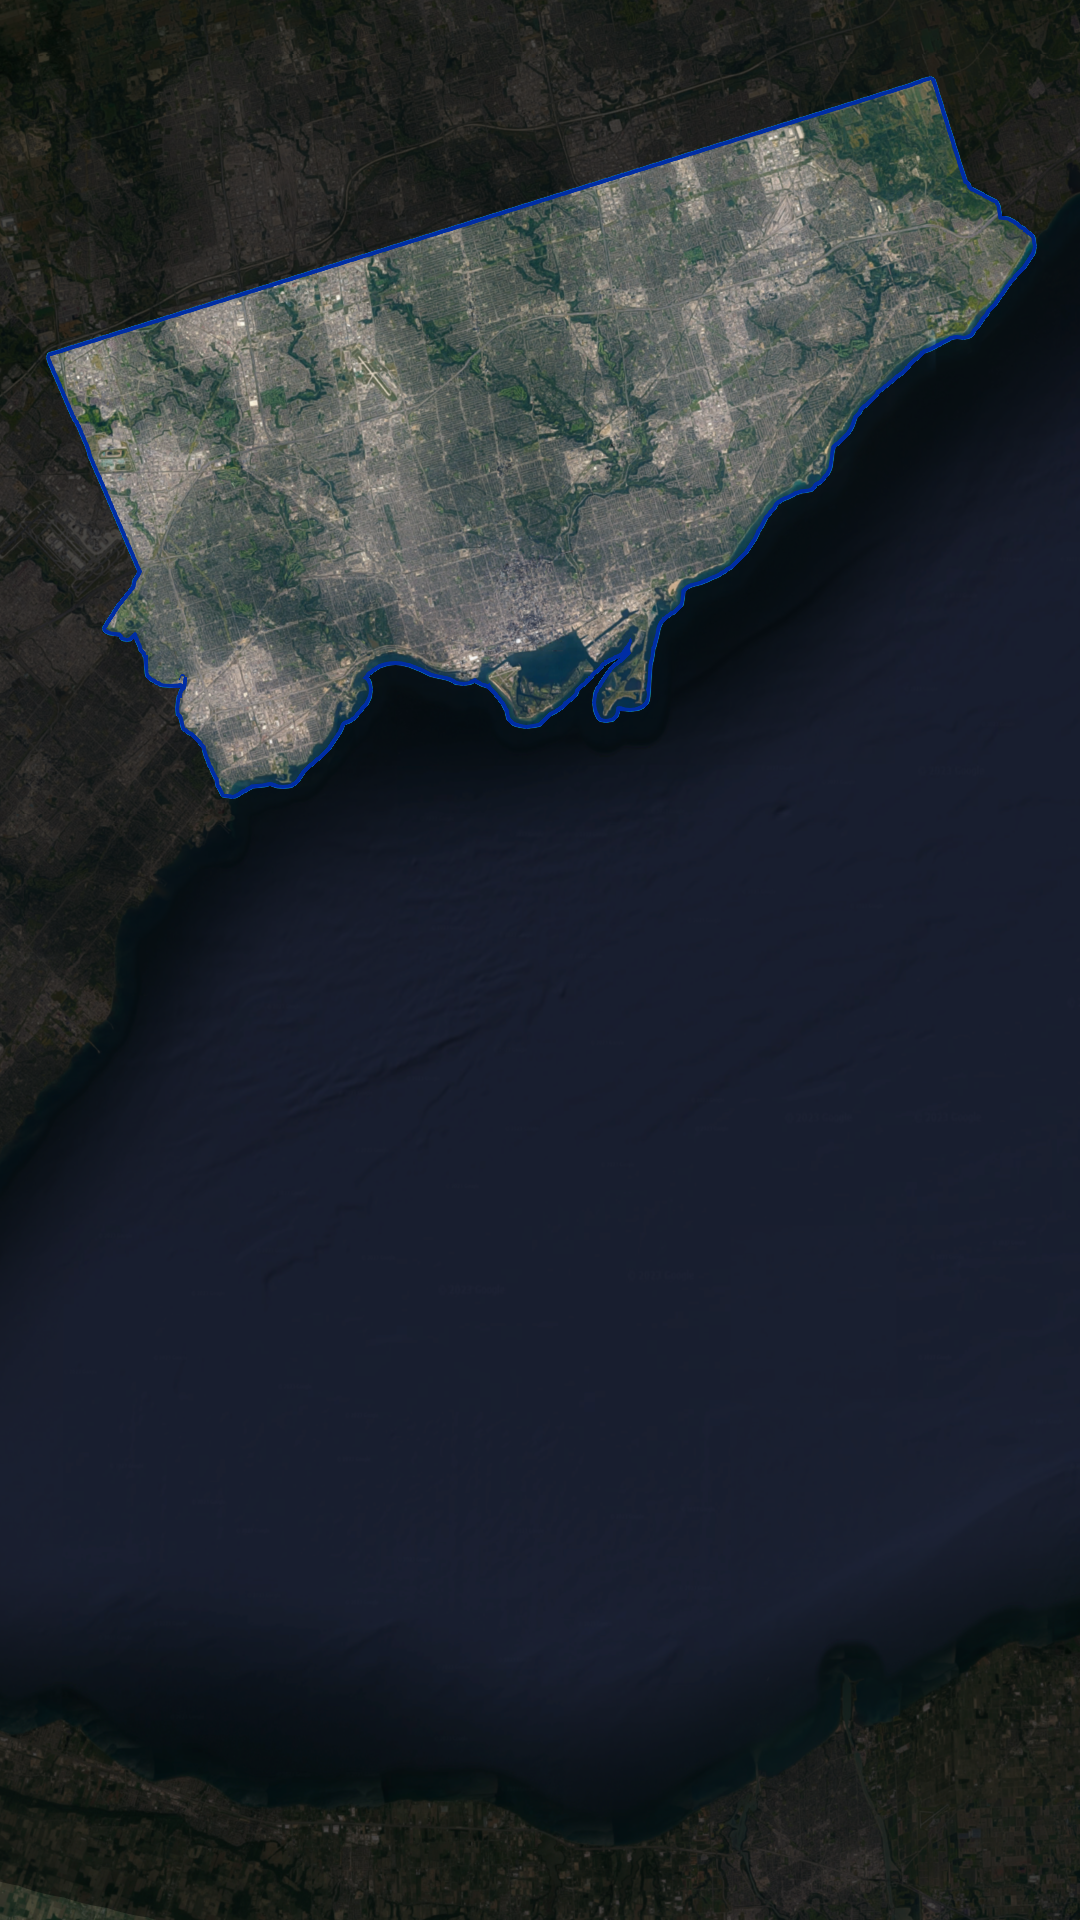
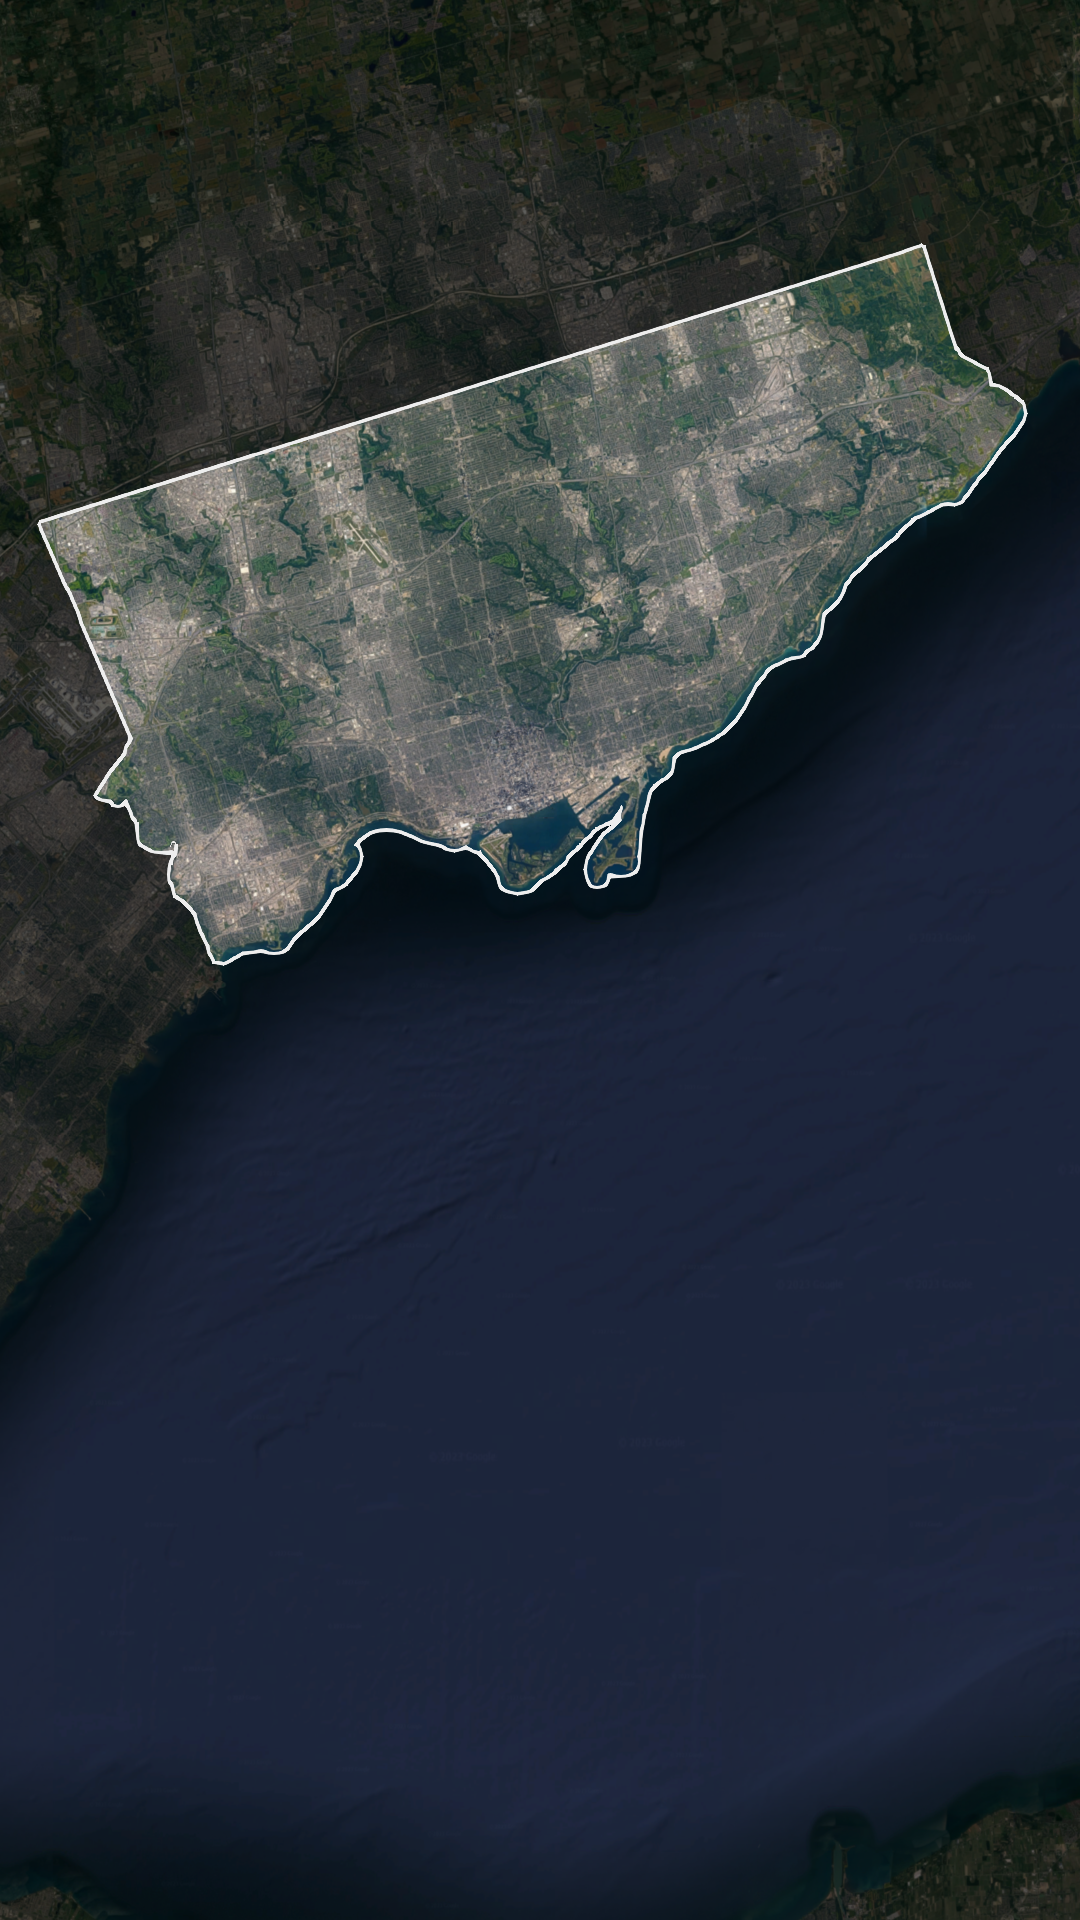
upd

diff --git a/src/comp/Map.tsx b/src/comp/Map.tsx
@@ -1,15 +1,34 @@
 import React from 'react';
 import { Img, staticFile } from "remotion";
 import { Report } from '../global/report';
+import CrimeIcon from './CrimeIcon';
 import Icon from './Icon';
 import Blink from './Blink';
-import { gunFilename, mapFilename, circleFilename } from '../global/filenames';
+import { mapFilename, circleFilename } from '../global/filenames';
 
+// 5427239.027927728,49
+// 5443097.109880663,931
+// 5405767.174643795,604
+// y = 64166290 - 23.66701*x + 0.000002182327*x^2
+
+// 5427239.027927728, -8864425.720870294
+// 49, 356
+
+// 5443097.109880663, -8813484.897743978
+// 931, 78
+
+// 5405767.174643795, -8833013.898652822
+// 604, 713
 
 function convertReportPointToPixel(report:Report):[number,number]{
-  return [report.geoPoint[0], report.geoPoint[1]]
-}
 
+  y = -0.0168663*x - 148494.1
+  y = 0.01696261*x - 90655.49
+  const newX = Math.round(-2699487000 + 1497.296*report.geoPoint[0] - 0.0002768294*report.geoPoint[0]^2 + 1.706064e-11*report.geoPoint[0]^3)
+  const newY = Math.round(-2699487000 + 1497.296*report.geoPoint[1] - 0.0002768294*report.geoPoint[1]^2 + 1.706064e-11*report.geoPoint[1]^3)
+  
+  return [newX, newY];
+}
 
 
 
@@ -20,29 +39,26 @@ const ReportMapped: React.FC<{
   isHighlighted:boolean,
 }> = ({durationInFrames, report, isHighlighted, animDelayPerc=0}) => {
 
-  const highlightOffsetY = 128;
-  const reportsPixelPoint = convertReportPointToPixel(report);
+  const reportPixelPoint = convertReportPointToPixel(report);
 
 	return (
-      <div>
+      <div
+        style={{transform: `translate(${reportPixelPoint[0]}px, ${reportPixelPoint[1]}px)`}}
+
+        className='absolute flex flex-col justify-center items-center'
+      >
 
         {isHighlighted?
           (
-          <div 
-              style={{transform: `translate(${reportsPixelPoint[0]}px, ${reportsPixelPoint[1]-highlightOffsetY}px)`}}
-                className={`absolute`}
-              >
+          <div >
               <Blink durationInFrames={durationInFrames} classOther="" animDelayPerc={animDelayPerc} >
-                <Icon filename={gunFilename} classOther='w-32' />
+                <CrimeIcon report={report} classOther='w-28' />
               </Blink>
             </div>
           ):(<div/>)}
 
-          <div
-                style={{transform: `translate(${reportsPixelPoint[0]}px, ${reportsPixelPoint[1]}px)`}}
-                className={`absolute`}
-          >
-            <Icon filename={circleFilename} classOther='w-12' />
+          <div>
+            <Icon filename={circleFilename} classOther='w-8' />
           </div>
       </div>
 	);

diff --git a/src/scenes/Overview.tsx b/src/scenes/Overview.tsx
@@ -32,7 +32,7 @@ export const OverviewScene: React.FC<{
 			{/* prompt */}
 			<SlideUpDown 
 				durationInFrames={durationInFrames} 
-				targetHeightRatio={0.5} 
+				targetHeightRatio={0.4} 
 				classOther="w-full flex flex-col items-center justify-center" 
 				animDelayPerc={0}>
 				<Card colorScheme={primary}>
@@ -42,11 +42,11 @@ export const OverviewScene: React.FC<{
 				</Card>
 				<Card colorScheme={secondary}>
 					<FadeInOut durationInFrames={durationInFrames} classOther="w-full flex flex-col items-start justify-center gap-4 pt-4 pb-8" animDelayPerc={0.04}>
-						<Text bolded="Total: " text={`${reports.length} reports`} fontScheme={bodyFont} colorScheme={secondary} />
-						<Text bolded="Shooting: " text={`${shooting.length} reports`} fontScheme={bodyFont} colorScheme={secondary} />
-						<Text bolded="Robbery: " text={`${robbery.length} reports`} fontScheme={bodyFont} colorScheme={secondary} />
-						<Text bolded="Sexual Violation: " text={`${sexualViolation.length} reports`} fontScheme={bodyFont} colorScheme={secondary} />
-						<Text bolded="Homicide: " text={`${homicide.length} reports`} fontScheme={bodyFont} colorScheme={secondary} />
+						<Text bolded="Total: " text={`${reports.length} ${grammarPlurality('report', reports.length)}`} fontScheme={bodyFont} colorScheme={secondary} />
+						<Text bolded="Shooting: " text={`${shooting.length} ${grammarPlurality('report', shooting.length)}`} fontScheme={bodyFont} colorScheme={secondary} />
+						<Text bolded="Robbery: " text={`${robbery.length} ${grammarPlurality('report', robbery.length)}`} fontScheme={bodyFont} colorScheme={secondary} />
+						<Text bolded="Sexual Violation: " text={`${sexualViolation.length} ${grammarPlurality('report', sexualViolation.length)}`} fontScheme={bodyFont} colorScheme={secondary} />
+						<Text bolded="Homicide: " text={`${homicide.length} ${grammarPlurality('report', homicide.length)}`} fontScheme={bodyFont} colorScheme={secondary} />
 					</FadeInOut>
 				</Card>
 				<Card colorScheme={tertiary}>
@@ -61,3 +61,9 @@ export const OverviewScene: React.FC<{
 	);
 };
         
+
+
+
+function grammarPlurality(word:string, count:number){
+	return count == 1? word : word+"s";
+}

diff --git a/src/scenes/Report.tsx b/src/scenes/Report.tsx
@@ -7,7 +7,7 @@ import FadeInOut from '../comp/FadeInOut'
 import Text from '../comp/Text';
 import SlideUpDown from '../comp/SlideUpDown'
 import Map from '../comp/Map';
-
+import { convertTo12 } from '../global/dateHelper';
 
 
 
@@ -27,20 +27,18 @@ export const ReportScene: React.FC<{
 
 		<AbsoluteFill className={`bg-slate-900 items-start justify-start`}>
 
-			{/* map */}
 			<Map durationInFrames={durationInFrames} reports={reports} highlightedIndices={[reportIndex]} animDelayPerc={0.1} />
 
-			{/* prompt */}
 			<SlideUpDown 
 				durationInFrames={durationInFrames} 
-				targetHeightRatio={0.5} 
+				targetHeightRatio={0.4} 
 				classOther="w-full flex flex-col items-center justify-center" 
 				animDelayPerc={0}>
 				<Card colorScheme={secondary}>
 					<FadeInOut durationInFrames={durationInFrames} classOther="w-full flex flex-col items-start justify-center gap-4 pt-4 pb-8" animDelayPerc={0.04}>
-						<Text bolded="Time: " text={`${report.hour} *`} fontScheme={bodyFont} colorScheme={secondary} />
-						<Text bolded="Neighborhood: " text={`${report.neighborhood}`} fontScheme={bodyFont} colorScheme={secondary} />
-						<Text bolded="Crime Type: " text={`${report.crimeType}`} fontScheme={bodyFont} colorScheme={secondary} />
+						<Text bolded="Time: " text={`${convertTo12(report.hour)}`} fontScheme={bodyFont} colorScheme={secondary} />
+						<Text bolded="Area: " text={`${report.neighborhood}`} fontScheme={bodyFont} colorScheme={secondary} />
+						<Text bolded="Incident Type: " text={`${report.crimeType}`} fontScheme={bodyFont} colorScheme={secondary} />
 						<Text bolded="Location Type: " text={`${report.locationType}`} fontScheme={bodyFont} colorScheme={secondary} />
 					</FadeInOut>
 				</Card>

diff --git a/src/global/dateHelper.ts b/src/global/dateHelper.ts
@@ -1,6 +1,37 @@
 
-export function getDateStr(date:Date, isMonthShort:boolean=false):string{
-  const day = date.getDay();
-  const monthName = date.toLocaleString('default', { month: 'long' });
-  return `${monthName} ${day}`
+export function getDateStr(date:Date, isShortHand:boolean) : string {
+  const day = date.getDate();
+  const month = date.getMonth();
+
+  // Define full months and shorthand months 
+  const fullMonths = ['January', 'February', 'March', 'April', 'May', 'June', 'July', 'August', 'September', 'October', 'November', 'December'];
+  const shortMonths = ['Jan', 'Feb', 'Mar', 'Apr', 'May', 'Jun', 'Jul', 'Aug', 'Sep', 'Oct', 'Nov', 'Dec'];
+
+  const getOrdinalSuffix = (n: number) => { 
+    if (n > 3 && n < 21) return 'th';
+    switch (n % 10) {
+        case 1:  return "st";
+        case 2:  return "nd";
+        case 3:  return "rd";
+        default: return "th";
+    }
+  }
+
+  if(isShortHand) {
+    return `${shortMonths[month]} ${day}${getOrdinalSuffix(day)}`;
+  } else {
+    return `${fullMonths[month]} ${day}${getOrdinalSuffix(day)}`;
+  }
 }
+
+export function convertTo12(time: number): string {
+  if (time === 0) {
+      return `12am`;
+  } else if (time < 12) {
+      return `${time}am`;
+  } else if (time === 12) {
+      return `12pm`;
+  } else {
+      return `${time - 12}pm`;
+  }
+};

diff --git a/src/comp/CrimeIcon.tsx b/src/comp/CrimeIcon.tsx
@@ -1,0 +1,47 @@
+import React from 'react';
+import {Report, CrimeTypes} from '../global/report';
+import { Img, staticFile } from "remotion";
+import { gunFilename, robberFilename, sexualViolationFilename, homicideFilename } from '../global/filenames';
+
+
+
+
+
+const CrimeIcon: React.FC<{
+	report: Report,
+  classOther:string
+}> = ({report, classOther}) => {
+
+  let filename:string|null = null;
+  
+  switch (report.crimeType) {
+    case CrimeTypes.shooting:
+      filename=gunFilename
+      break;
+
+    case CrimeTypes.robbery:
+      filename=robberFilename
+      break;
+
+    case CrimeTypes.sexualViolation:
+      filename=sexualViolationFilename
+      break;
+
+    case CrimeTypes.homicide:
+      filename=homicideFilename
+      break;
+  
+    default:
+      break;
+  }
+
+  if(filename==null){
+    throw new Error("Report crimeType did not match existing icons");
+  }
+
+	return (
+			<Img src={staticFile(filename)} className={classOther} alt="Icon" />
+	);
+};
+
+export default CrimeIcon;

diff --git a/src/Composition.tsx b/src/Composition.tsx
@@ -2,27 +2,19 @@ import * as IntroScene from "./scenes/Intro";
 import * as OverviewScene from "./scenes/Overview";
 import * as ReportScene from "./scenes/Report";
 import * as MessageScene from "./scenes/Message";
-import {Report, fetchReports} from './global/report';
+import {fetchReports} from './global/report';
 import {
-  linearTiming,
-  springTiming,
   TransitionSeries,
 } from "@remotion/transitions"; 
-import { fade } from "@remotion/transitions/fade";
-import { wipe } from "@remotion/transitions/wipe";
 import { loadFont } from "@remotion/google-fonts/Montserrat";
 import { generatePrompts } from "./global/prompt";
 
 const { fontFamily } = loadFont();
 
 
-// fetch reports
-// generate prompts
-  // generate tts 
-  // fetch prompt durations
-// create scenes
 
 const date = new Date()
+date.setDate(date.getDate() - 1);
 const reports = fetchReports(date)
 const prompts = generatePrompts(date, reports)
 

diff --git a/src/global/report.ts b/src/global/report.ts
@@ -11,21 +11,21 @@ export interface Report{
 export function fetchReports(date:Date):Report[]{
 
   const reportExample:Report={
-    geoPoint : [250,450],
+    geoPoint : [-8864425.720870294, 5427239.027927728],
     hour:23,
     neighborhood:"Downtown Yonge East",
     crimeType:"Robbery",
     locationType:"Outside",
   }
   const reportExample2:Report={
-    geoPoint : [500,350],
+    geoPoint : [-8813484.897743978, 5443097.109880663],
     hour:23,
     neighborhood:"Downtown Yonge East",
     crimeType:"Shooting",
     locationType:"Outside",
   }
   const reportExample3:Report={
-    geoPoint : [850,300],
+    geoPoint : [-8850559.742170155, 5415453.6030316409],
     hour:23,
     neighborhood:"Downtown Yonge East",
     crimeType:"Homicide",

diff --git a/src/scenes/Intro.tsx b/src/scenes/Intro.tsx
@@ -25,10 +25,10 @@ export const IntroScene: React.FC<{
 			{/* prompt */}
 			<SlideDown 
 				durationInFrames={durationInFrames} 
-				targetHeightRatio={0.5} 
+				targetHeightRatio={0.4} 
 				classOther="w-full flex flex-col items-center justify-center" 
 				animDelayPerc={0}>
-						<Text text={getDateStr(date)} fontScheme={maxFont} colorScheme={primary} />
+						<Text text={getDateStr(date, true)} fontScheme={maxFont} colorScheme={primary} />
 			</SlideDown>
 
 		</AbsoluteFill>

diff --git a/src/global/prompt.ts b/src/global/prompt.ts
@@ -37,7 +37,7 @@ function getIntroPrompt(date:Date){
 function getOverviewPrompt(date:Date, reports:Report[]){
   return {
     type:"overview",
-    text:`${reports.length} police reports on ${getDateStr(date)}`,
+    text:`${reports.length} police reports on ${getDateStr(date, false)}`,
     audioFilePath:null,
     durationInSeconds:4,
     highlightedReportIndex:null

diff --git a/src/global/filenames.ts b/src/global/filenames.ts
@@ -1,5 +1,8 @@
 
 
 export const mapFilename = "toronto_map.png"
-export const gunFilename = "gun.png"
 export const circleFilename = "circle.png"
+export const gunFilename = "gun.png"
+export const robberFilename = "robber.png"
+export const sexualViolationFilename = "sexual_violation.png"
+export const homicideFilename = "homicide.png"

diff --git a/src/scenes/Message.tsx b/src/scenes/Message.tsx
@@ -30,7 +30,7 @@ export const MessageScene: React.FC<{
 			{/* prompt */}
 			<SlideUpDown 
 				durationInFrames={durationInFrames} 
-				targetHeightRatio={0.5} 
+				targetHeightRatio={0.4} 
 				classOther="w-full flex flex-col items-center justify-center" 
 				animDelayPerc={0}>
 				<Card colorScheme={primary}>
